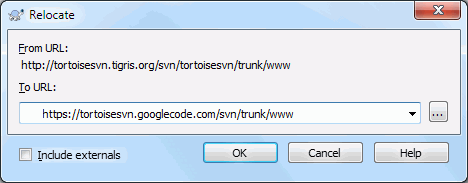
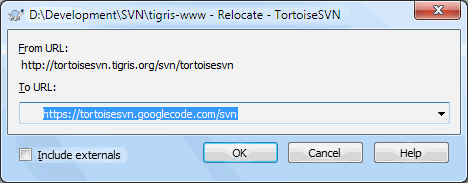
Relocate dialog: * remove the browse button * don't use url history: the new repository wouldn't be in the history * use auto-complete: the new repo url might be in the browser history * use the repo root url instead of the url of the wc-root: changing paths inside a repo is not the job of the reloc

diff --git a/src/TortoiseProc/RelocateDlg.cpp b/src/TortoiseProc/RelocateDlg.cpp
@@ -19,8 +19,6 @@
 #include "stdafx.h"
 #include "TortoiseProc.h"
 #include "RelocateDlg.h"
-#include "RepositoryBrowser.h"
-#include "BrowseFolder.h"
 #include "AppUtils.h"
 
 IMPLEMENT_DYNAMIC(CRelocateDlg, CResizableStandAloneDialog)
@@ -46,10 +44,8 @@ void CRelocateDlg::DoDataExchange(CDataExchange* pDX)
 
 
 BEGIN_MESSAGE_MAP(CRelocateDlg, CResizableStandAloneDialog)
-    ON_BN_CLICKED(IDC_BROWSE, OnBnClickedBrowse)
     ON_BN_CLICKED(IDHELP, OnBnClickedHelp)
     ON_WM_SIZING()
-    ON_CBN_EDITCHANGE(IDC_TOURL, &CRelocateDlg::OnCbnEditchangeTourl)
 END_MESSAGE_MAP()
 
 BOOL CRelocateDlg::OnInitDialog()
@@ -61,8 +57,7 @@ BOOL CRelocateDlg::OnInitDialog()
     m_aeroControls.SubclassControl(this, IDC_INCLUDEEXTERNALS);
     m_aeroControls.SubclassOkCancelHelp(this);
 
-    m_URLCombo.SetURLHistory(true, false);
-    m_URLCombo.LoadHistory(_T("Software\\TortoiseSVN\\History\\repoURLS"), _T("url"));
+    m_URLCombo.SetURLHistory(true, true);
     m_URLCombo.SetCurSel(0);
 
     RECT rect;
@@ -77,7 +72,6 @@ BOOL CRelocateDlg::OnInitDialog()
     AddAnchor(IDC_FROMURL, TOP_LEFT, TOP_RIGHT);
     AddAnchor(IDC_TOURLLABEL, TOP_LEFT);
     AddAnchor(IDC_TOURL, TOP_LEFT, TOP_RIGHT);
-    AddAnchor(IDC_BROWSE, TOP_RIGHT);
     AddAnchor(IDC_DWM, TOP_LEFT);
     AddAnchor(IDOK, BOTTOM_RIGHT);
     AddAnchor(IDCANCEL, BOTTOM_RIGHT);
@@ -85,23 +79,15 @@ BOOL CRelocateDlg::OnInitDialog()
 
     SetDlgItemText(IDC_FROMURL, m_sFromUrl);
     m_URLCombo.SetWindowText(m_sFromUrl);
-    GetDlgItem(IDC_BROWSE)->EnableWindow(!m_URLCombo.GetString().IsEmpty());
     if ((m_pParentWnd==NULL)&&(GetExplorerHWND()))
         CenterWindow(CWnd::FromHandle(GetExplorerHWND()));
     EnableSaveRestore(_T("RelocateDlg"));
     return TRUE;
 }
 
-void CRelocateDlg::OnBnClickedBrowse()
-{
-    SVNRev rev(SVNRev::REV_HEAD);
-    CAppUtils::BrowseRepository(m_URLCombo, this, rev);
-}
-
 void CRelocateDlg::OnOK()
 {
     UpdateData(TRUE);
-    m_URLCombo.SaveHistory();
     m_sToUrl = m_URLCombo.GetString();
     UpdateData(FALSE);
 
@@ -130,9 +116,4 @@ void CRelocateDlg::OnSizing(UINT fwSide, LPRECT pRect)
         break;
     }
     CResizableStandAloneDialog::OnSizing(fwSide, pRect);
-}
-
-void CRelocateDlg::OnCbnEditchangeTourl()
-{
-    GetDlgItem(IDC_BROWSE)->EnableWindow(!m_URLCombo.GetString().IsEmpty());
 }

diff --git a/src/TortoiseProc/RelocateDlg.h b/src/TortoiseProc/RelocateDlg.h
@@ -40,10 +40,8 @@ protected:
     virtual void DoDataExchange(CDataExchange* pDX);    // DDX/DDV support
     virtual void OnOK();
     virtual BOOL OnInitDialog();
-    afx_msg void OnBnClickedBrowse();
     afx_msg void OnBnClickedHelp();
     afx_msg void OnSizing(UINT fwSide, LPRECT pRect);
-    afx_msg void OnCbnEditchangeTourl();
 
     DECLARE_MESSAGE_MAP()
 

diff --git a/src/TortoiseProc/Commands/RelocateCommand.cpp b/src/TortoiseProc/Commands/RelocateCommand.cpp
@@ -32,7 +32,7 @@ bool RelocateCommand::Execute()
     SVN svn;
     CRelocateDlg dlg;
     dlg.m_path = cmdLinePath;
-    dlg.m_sFromUrl = CPathUtils::PathUnescape(svn.GetURLFromPath(cmdLinePath));
+    dlg.m_sFromUrl = CPathUtils::PathUnescape(svn.GetRepositoryRoot(cmdLinePath));
     dlg.m_sToUrl = dlg.m_sFromUrl;
 
     if (dlg.DoModal() == IDOK)
